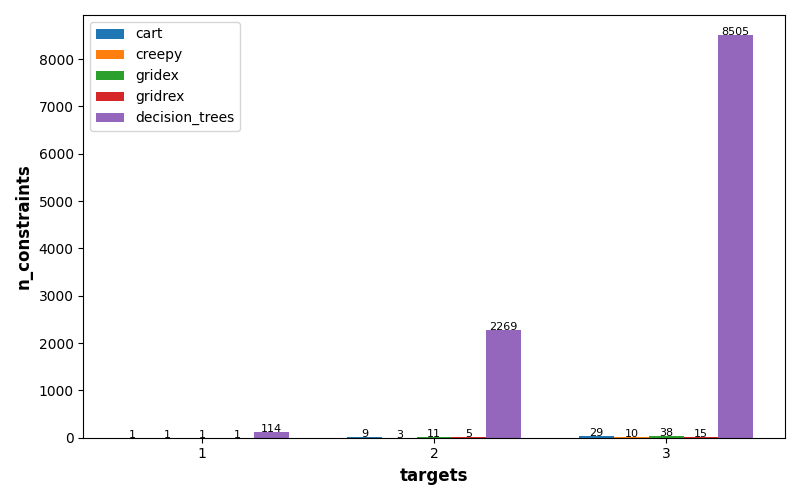
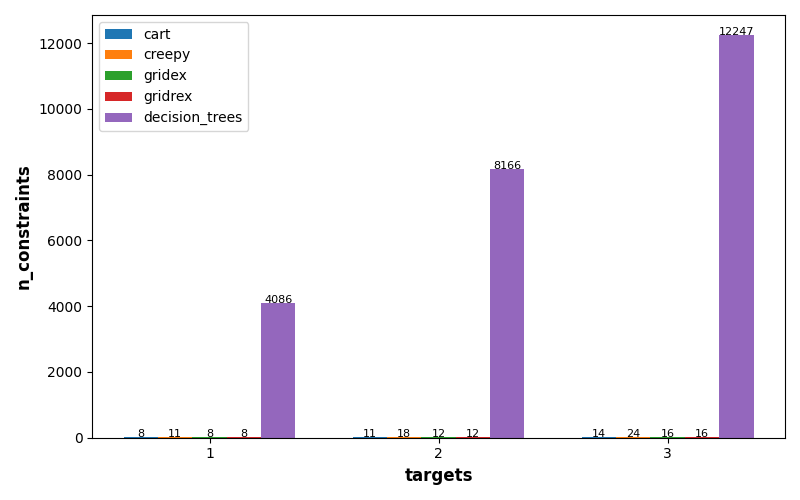
updated final results

diff --git a/tests/calculate_means.py b/tests/calculate_means.py
@@ -52,10 +52,10 @@ if __name__ == '__main__':
         ex_times_mean_tot = [0, 0, 0]
         n_vars_mean_tot = [0, 0, 0]
         n_constraints_mean_tot = [0, 0, 0]
-        count = 0
+        count = [0, 0, 0]
 
         # check result folder existance
-        result_folder = f"{results_path}/{rule}_latest"
+        result_folder = f"{results_path}/{rule}"
         if not os.path.exists(result_folder):
             print(f"Result file not found: {result_folder}")
             continue
@@ -64,11 +64,8 @@ if __name__ == '__main__':
         for file in os.listdir(result_folder):
             result_df = pd.read_csv(f"{result_folder}/{file}")
 
-            # compute mean and median for ex_times
+            # compute mean for ex_times, n_vars, n_constraints
             ex_times_mean = result_df.loc[:, 'ex_times'].mean()
-            # ex_times_media = result_df.loc[:, 'ex_times'].median()
-
-            # compute mean for n_vars, n_constraints
             n_vars_mean = result_df.loc[:, 'n_vars'].mean()
             n_constraints_mean = result_df.loc[:, 'n_constraints'].mean()
 
@@ -79,39 +76,40 @@ if __name__ == '__main__':
                 ex_times_mean_tot[0] += ex_times_mean
                 n_vars_mean_tot[0] += n_vars_mean
                 n_constraints_mean_tot[0] += n_constraints_mean
+                count[0] +=1
             # two targets
             elif re.match(pattern_one_none, file):
                 ex_times_mean_tot[1] += ex_times_mean
                 n_vars_mean_tot[1] += n_vars_mean
                 n_constraints_mean_tot[1] += n_constraints_mean
+                count[1] +=1
             # three targets
             else:
                 ex_times_mean_tot[2] += ex_times_mean
                 n_vars_mean_tot[2] += n_vars_mean
                 n_constraints_mean_tot[2] += n_constraints_mean
-
-            count += 1
+                count[2] +=1
 
         # collect and save results
         new_data_time = {
             "rule": rule,
-            "ex_times_mean_1_target": (ex_times_mean_tot[0]/count),
-            "ex_times_mean_2_target": (ex_times_mean_tot[1]/count),
-            "ex_times_mean_3_target": (ex_times_mean_tot[2]/count)
+            "ex_times_mean_1_target": (ex_times_mean_tot[0]/count[0]),
+            "ex_times_mean_2_target": (ex_times_mean_tot[1]/count[1]),
+            "ex_times_mean_3_target": (ex_times_mean_tot[2]/count[2])
         }
 
         new_data_vars = {
             "rule": rule,
-            "n_vars_mean_1_target": int(math.ceil((n_vars_mean_tot[0]/count))),
-            "n_vars_mean_2_target": int(math.ceil((n_vars_mean_tot[1]/count))),
-            "n_vars_mean_3_target": int(math.ceil((n_vars_mean_tot[2]/count)))
+            "n_vars_mean_1_target": int(math.ceil((n_vars_mean_tot[0]/count[0]))),
+            "n_vars_mean_2_target": int(math.ceil((n_vars_mean_tot[1]/count[1]))),
+            "n_vars_mean_3_target": int(math.ceil((n_vars_mean_tot[2]/count[2])))
         }
 
         new_data_constraints = {
             "rule": rule,
-            "n_constraints_mean_1_target": int(math.ceil((n_constraints_mean_tot[0])/count)),
-            "n_constraints_mean_2_target": int(math.ceil((n_constraints_mean_tot[1])/count)),
-            "n_constraints_mean_3_target": int(math.ceil((n_constraints_mean_tot[2])/count))
+            "n_constraints_mean_1_target": int(math.ceil((n_constraints_mean_tot[0])/count[0])),
+            "n_constraints_mean_2_target": int(math.ceil((n_constraints_mean_tot[1])/count[1])),
+            "n_constraints_mean_3_target": int(math.ceil((n_constraints_mean_tot[2])/count[2]))
         }
 
         # create new dataframes
@@ -128,7 +126,7 @@ if __name__ == '__main__':
     ex_times_mean_tot = [0, 0, 0]
     n_vars_mean_tot = [0, 0, 0]
     n_constraints_mean_tot = [0, 0, 0]
-    count = 0
+    count = [0, 0, 0]
 
     # check result folder existance
     result_folder = f"{results_path}/hada"
@@ -139,11 +137,8 @@ if __name__ == '__main__':
     for file in os.listdir(result_folder):
         result_df = pd.read_csv(f"{result_folder}/{file}")
 
-        # compute mean and median for ex_times
-        ex_times_mean = result_df.loc[:, 'ex_times'].mean()
-        # ex_times_media = result_df.loc[:, 'ex_times'].median()
-
-        # compute mean for n_vars, n_constraints
+        # compute mean for ex_times, n_vars, n_constraints
+        ex_times_mean = result_df['ex_times'].mean()
         n_vars_mean = result_df.loc[:, 'n_vars'].mean()
         n_constraints_mean = result_df.loc[:, 'n_constraints'].mean()
 
@@ -154,39 +149,41 @@ if __name__ == '__main__':
             ex_times_mean_tot[0] += ex_times_mean
             n_vars_mean_tot[0] += n_vars_mean
             n_constraints_mean_tot[0] += n_constraints_mean
+            count[0] +=1
         # two targets
         elif re.match(pattern_one_none, file):
             ex_times_mean_tot[1] += ex_times_mean
             n_vars_mean_tot[1] += n_vars_mean
             n_constraints_mean_tot[1] += n_constraints_mean
+            count[1] +=1
         # three targets
         else:
             ex_times_mean_tot[2] += ex_times_mean
             n_vars_mean_tot[2] += n_vars_mean
             n_constraints_mean_tot[2] += n_constraints_mean
+            count[2] +=1
 
-        count += 1
 
     # collect and save results
     new_data_time = {
         "rule": "decision_trees",
-        "ex_times_mean_1_target": (ex_times_mean_tot[0]/count),
-        "ex_times_mean_2_target": (ex_times_mean_tot[1]/count),
-        "ex_times_mean_3_target": (ex_times_mean_tot[2]/count)
+        "ex_times_mean_1_target": (ex_times_mean_tot[0]/count[0]),
+        "ex_times_mean_2_target": (ex_times_mean_tot[1]/count[1]),
+        "ex_times_mean_3_target": (ex_times_mean_tot[2]/count[2])
     }
 
     new_data_vars = {
         "rule": "decision_trees",
-        "n_vars_mean_1_target": int(math.ceil((n_vars_mean_tot[0]/count))),
-        "n_vars_mean_2_target": int(math.ceil((n_vars_mean_tot[1]/count))),
-        "n_vars_mean_3_target": int(math.ceil((n_vars_mean_tot[2]/count)))
+        "n_vars_mean_1_target": int(math.ceil((n_vars_mean_tot[0]/count[0]))),
+        "n_vars_mean_2_target": int(math.ceil((n_vars_mean_tot[1]/count[1]))),
+        "n_vars_mean_3_target": int(math.ceil((n_vars_mean_tot[2]/count[2])))
     }
 
     new_data_constraints = {
         "rule": "decision_trees",
-        "n_constraints_mean_1_target": int(math.ceil((n_constraints_mean_tot[0]/count))),
-        "n_constraints_mean_2_target": int(math.ceil((n_constraints_mean_tot[1]/count))),
-        "n_constraints_mean_3_target": int(math.ceil((n_constraints_mean_tot[2]/count)))
+        "n_constraints_mean_1_target": int(math.ceil((n_constraints_mean_tot[0])/count[0])),
+        "n_constraints_mean_2_target": int(math.ceil((n_constraints_mean_tot[1])/count[1])),
+        "n_constraints_mean_3_target": int(math.ceil((n_constraints_mean_tot[2])/count[2]))
     }
 
     # create new dataframe
